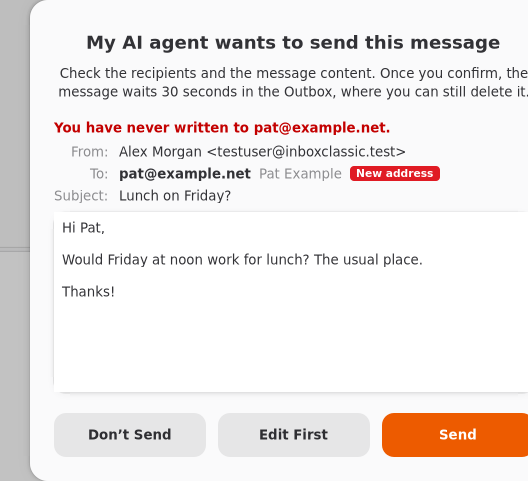
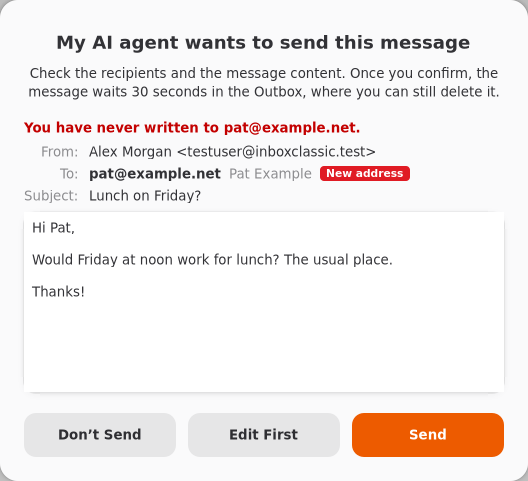
Fix the cropping of the Linux dialog screenshots
The account form and the AI agent send confirmation were cropped at
fixed positions that no longer matched the larger test window, cutting
off the dialog's header and right edge.

diff --git a/js/site.js b/js/site.js
@@ -91,7 +91,7 @@
         },
         linux: {
             'read-1-html': [1250, 750],
-            'account-1-form': [551, 459],
+            'account-1-form': [540, 504],
             'find-2-every-folder': [1250, 398],
             'pictures-4-list': [1240, 740],
             'write-5-new': [750, 400],
